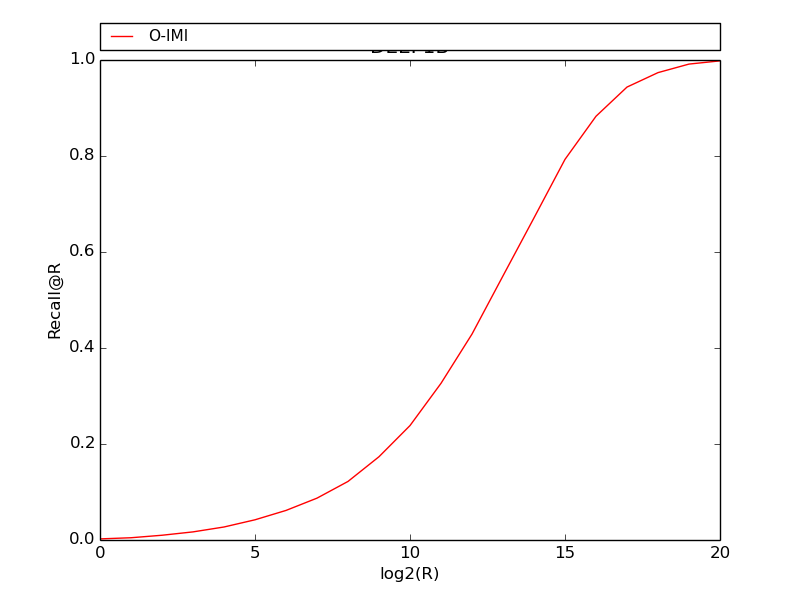
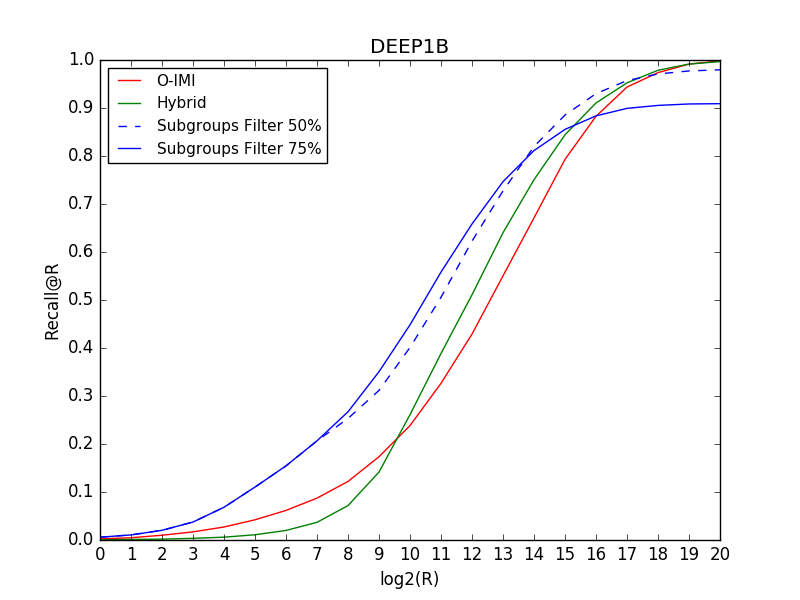
.

diff --git a/graphic.py b/graphic.py
@@ -23,6 +23,27 @@ O_IMI_txt = '''
 '''
 
 Hybrid_txt = '''
+0.0003	
+0.0012	
+0.0018	
+0.0035	
+0.0059	
+0.0109	
+0.0199	
+0.0368	
+0.0717	
+0.1415	
+0.2611	
+0.3886	
+0.5109	
+0.6402	
+0.7506	
+0.8442	
+0.9105	
+0.9524	
+0.9786	
+0.9915	
+0.9967	
 '''
 
 Subgroups_50_txt = '''
@@ -82,29 +103,22 @@ k = range(21)
 O_IMI = re.findall(r"[0-9.]+", O_IMI_txt)
 Subgroups_50 = re.findall(r"[0-9.]+", Subgroups_50_txt)
 Subgroups_75 = re.findall(r"[0-9.]+", Subgroups_75_txt)
+Hybrid = re.findall(r"[0-9.]+", Hybrid_txt)
 
-plt.plot(k, O_IMI, 'r', label = 'O-IMI')
-plt.plot(k, Subgroups_50, '--b', label = 'Subgroups 50% Filter')
-plt.plot(k, Subgroups_75, 'b', label = 'Subgroups 75% Filter')
+lineIMI, = plt.plot(k, O_IMI, 'r', label = 'O-IMI')
+lineHybrid, = plt.plot(k, Hybrid, 'g', label = 'Hybrid')
+lineSubgroups_50, = plt.plot(k, Subgroups_50, '--b', label = 'Subgroups Filter 50%')
+lineSubgroups_75, = plt.plot(k, Subgroups_75, 'b', label = 'Subgroups Filter 75%')
 
-# plt.plot(ef, cM2_M2, 'g', label = 'cM2_M2_ef_240')
-# plt.plot(ef, cM2_M2_ef_60, 'g--', label = 'cM2_M2_ef_60')
-#
-# plt.plot(ef, cM16_M2, 'b', label = 'cM16_M2_ef_240')
-# plt.plot(ef, cM16_M2_ef_60, 'b--', label = 'cM16_M2_ef_60')
+plt.xticks(range(21))
+plt.yticks(numpy.arange(0., 1.1, 0.1))
 
 plt.axis([0, 20, 0, 1])
 plt.xlabel('log2(R)', fontsize=12)
 plt.ylabel('Recall@R', fontsize=12)
-# plt.text(ef[-1]+1, cM16_M16[-1], 'cM16_M16_ef_240', fontsize=9, color=(1,0,0))
-# plt.text(ef[-1]+1, float(cM16_M2[-1])-0.1, 'cM16_M2_ef_240', fontsize=9, color=(0,0,1))
-# plt.text(ef[-1]+1, cM2_M2[-1], 'cM2_M2_ef_240', fontsize=9, color=(0,0.7,0))
-
 
 plt.title('DEEP1B')
-plt.legend(handles=[O_IMI], loc=1)
-plt.legend(handles=[Subgroups_50], loc=1)
-plt.legend(handles=[Subgroups_75], loc=1)
+plt.legend(fontsize=11, loc=2)
 #plt.legend(bbox_to_anchor=(0., 1.02, 1., .102), loc=3,
 #           ncol=3, mode="expand", borderaxespad=0., prop={'size': 11})
 plt.savefig('graphic.png')
